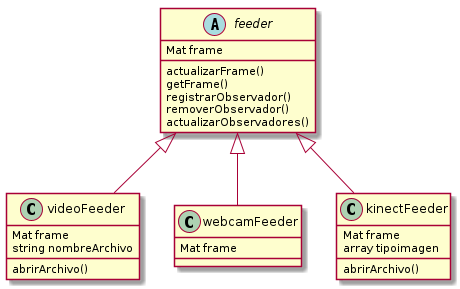
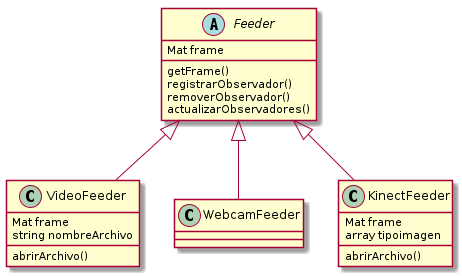
Actualizada descripcion del sistema

diff --git a/README.md b/README.md
@@ -3,13 +3,36 @@
 Proyecto final para las materias "Vision Artificial" y "Complementos de Informatica"
 El proyecto consiste en un programa capaz de obtener imagenes de distintos medios, detectar caras y analizar su simetria. Ademas, deberia ser capaz de generar reportes y mostrar fotogramas claves, donde la asimetria sea maxima o donde se detecte claramente cierta expresion facial (sonrisa, ceño fruncido, levantar cejas, etc). La idea de la implementación está basada en [este paper][1].
 
+## Tabla de contenidos
+
++ [Desarrollo](#desarrollo)
++ [Clases](#clases)
+  + [Clase feeder](#clase-feeder)
+    + [Clase VideoFeeder](#clase-videofeeder)
+    + [Clase WebcamFeeder](#clase-webcamfeeder)
+    + [Clase KinectFeeder](#clase-kinectfeeder)
+  + [Clase ExtractorLandmarks](#clase-extractorlandmarks)
+  + [Clase normalizadorLandmarks](#clase-normalizadorlandmarks)
+  + [Clase AnalizadorSimetria](#clase-analizadorsimetria)
+
 ## Desarrollo
 
 El software consistira de varias clases, "concatenadas" entre si utilizando un esquema de observadores.
 
 ![Esquema del funcionamiento general](/Diagrama/proyectoVision.png).
 
-En el esquema anterior, las flechas indican "observadores de"
+En el esquema anterior, las flechas indican "observadores de". Aun no se si esta implementacion es correcta, ya que seria muy propensa a cuellos de botella en caso de que algun paso falle.
+
+El sistema instanciará los objetos necesarios a partir de argumentos pasados al mismo, con las clases concretas necesarias segun el caso. Si no se pasan argumentos, deberia intentar abrir una webcam, y utilizar un archivo de entrenamiento por defecto.
+
+## Argumentos
+
++ `arg1` : Lo que hacer el arg1
++ `arg2` : Lo que hacer el arg2
+
+## Clases
+
+A continuacion, se detallan las distintas clases base que compondran al sistema.
 
 ### Clase Feeder
 
@@ -42,7 +65,6 @@ Estas dos clases utilizarían distintos algoritmos para la deteccion de puntos d
 ![Ejemplo del Feeder](/Diagrama/extractorLandmarks.png)
 
 Diagrama UML de la clase ExtractorLandmarks
-
 
 ### Clase NormalizadorLandmarks
 
